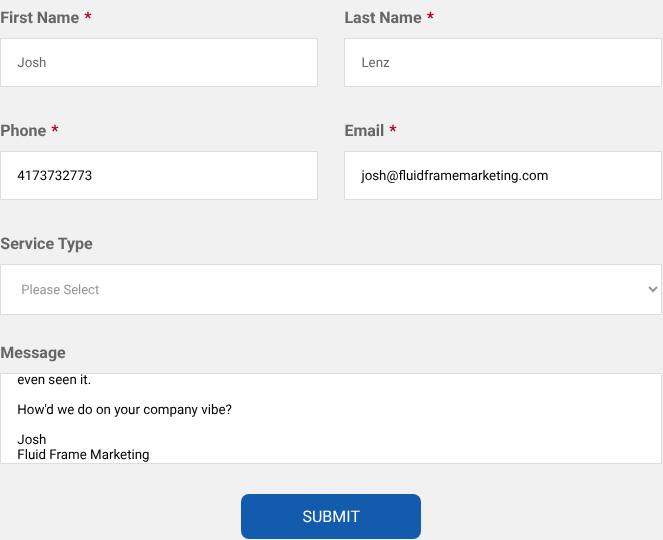
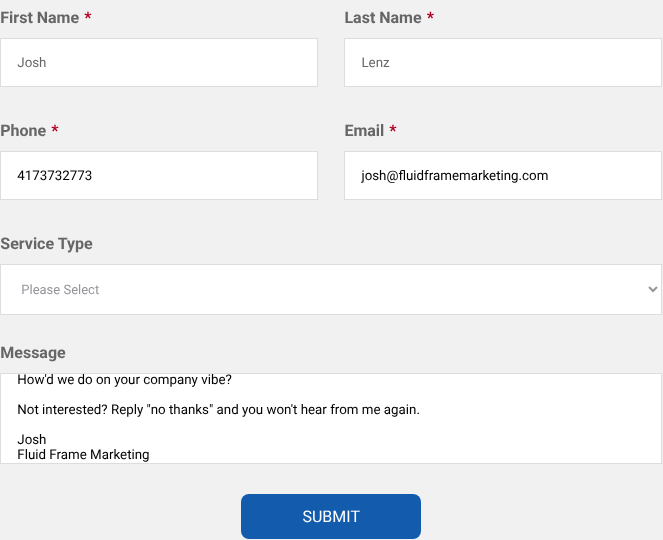
Outreach dry run with QA-passed messages (nothing submitted)
Claude-Session: https://claude.ai/code/session_019RbyfqmDW1VMVcstWx4WE5

Changed region(s): [[0.0302, 0.7407, 0.6335, 0.7704], [0.0302, 0.6815, 0.362, 0.7111]]

diff --git a/outreach-runs/2026-11-14/fw-lin-peo/dry-run/hand-send.md b/outreach-runs/2026-11-14/fw-lin-peo/dry-run/hand-send.md
@@ -19,19 +19,19 @@ Message:
 ```
 Hey Cool Concepts team,
 
-Your reviews tell the same story: when the AC or the furnace quits, someone gets there fast, finds the problem and explains it. One customer called at 9:15 and had James at the door by 9:35 for a furnace. My daughter and I build websites for service businesses, so we made you a mockup built around the homeowner side of that:
+Your reviews tell the same story: customers mention a technician who came out, found the problem and explained it. One customer said they called at 9:15 and James had arrived by 9:35 to work on their furnace. We build websites for service businesses, so we made you a mockup built around the homeowner side of that:
 
 https://coolconcepts-lincoln.websitepreview.fluidframemarketing.com/?utm_source=form
 
 Note: It'll look a lot better with your logo and images on it! Lol
 
-The preview opens with a recent case study, then walks through why each page is built the way it is. One thing we'd fix: the Request An Estimate button on your contact page goes to a page that doesn't exist.
+The preview walks through why each page is built the way it is. One thing we'd fix: the Request An Estimate button on your contact page goes to a page that doesn't exist.
 
-We built your AC repair page as an example, and we'd love to build the rest. Which brands or manufacturers are you certified with?
-
-By the way, our contact form system would have recognized this as a solicitation, and you wouldn't have even seen it.
+We built your homepage and your AC repair page as examples, and we'd love to build the rest.
 
 How'd we do on your company vibe?
+
+Not interested? Reply "no thanks" and you won't hear from me again.
 
 Josh
 Fluid Frame Marketing
@@ -54,19 +54,19 @@ Message:
 ```
 Hey Pioneer Roofing team,
 
-Your reviews tell the same story: friendly, responsive people who are fair and transparent. One customer wrote that you "sat down with me, informed me of what needed to be done with my attic venting repairs and the job was done wonderfully!" My daughter and I build websites for service businesses, so we made you a mockup built around it:
+One customer wrote that you "sat down with me, informed me of what needed to be done with my attic venting repairs and the job was done wonderfully!" We build websites for service businesses, so we made you a mockup:
 
 https://pioneer-peoria.websitepreview.fluidframemarketing.com/?utm_source=form
 
 Note: It'll look a lot better with your logo and images on it! Lol
 
-The preview opens with a recent case study, then walks through why each page is built the way it is. One thing we'd fix: the Phone button on your town pages dials (321) 399-2147, while the rest of your site shows (309) 865-5471, so a caller from a town page reaches a different number.
+The preview walks through why each page is built the way it is. One thing we'd fix: the Phone button on your town pages dials (321) 399-2147, while the rest of your site shows (309) 865-5471, so a caller from a town page reaches a different number.
 
-We built your homepage and your metal roofing page as examples, and we'd love to build the rest. Which brands or manufacturers are you certified with?
-
-By the way, our contact form system would have recognized this as a solicitation, and you wouldn't have even seen it.
+We built your homepage and your metal roofing page as examples, and we'd love to build the rest.
 
 How'd we do on your company vibe?
+
+Not interested? Reply "no thanks" and you won't hear from me again.
 
 Josh
 Fluid Frame Marketing
